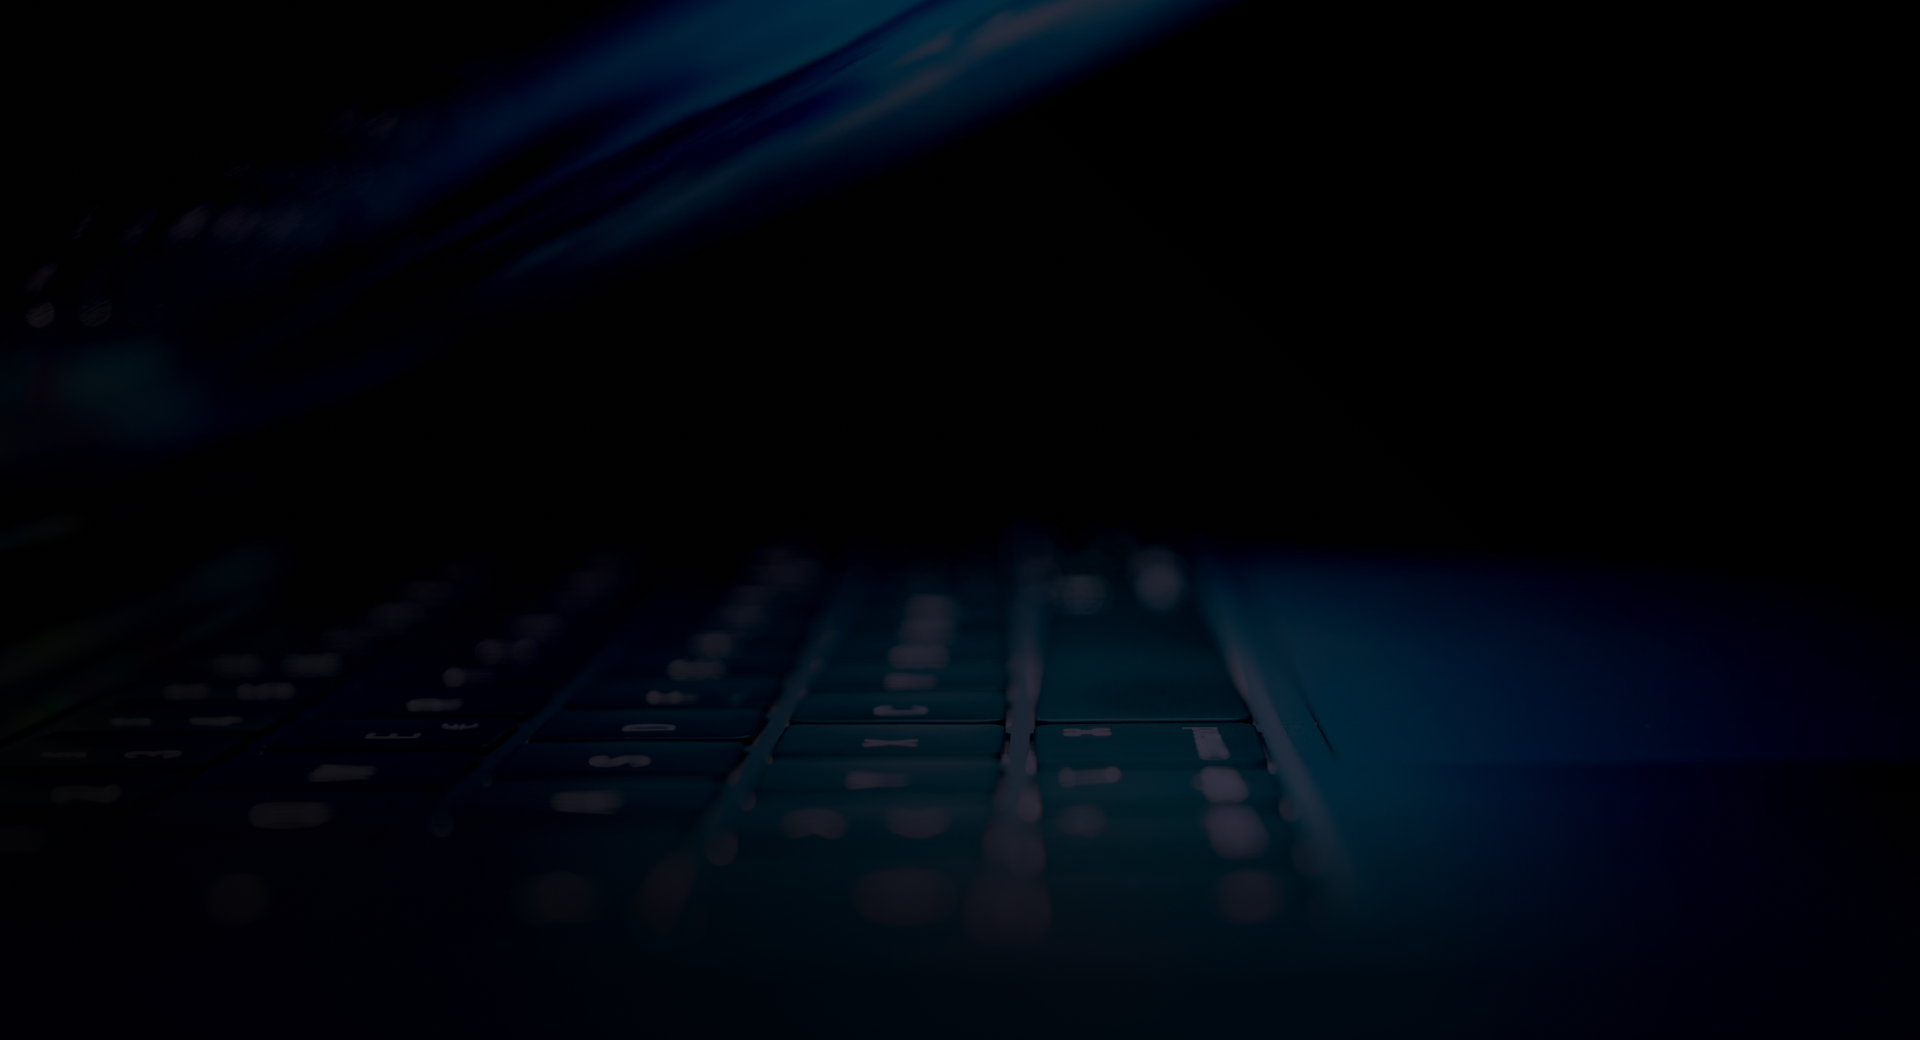
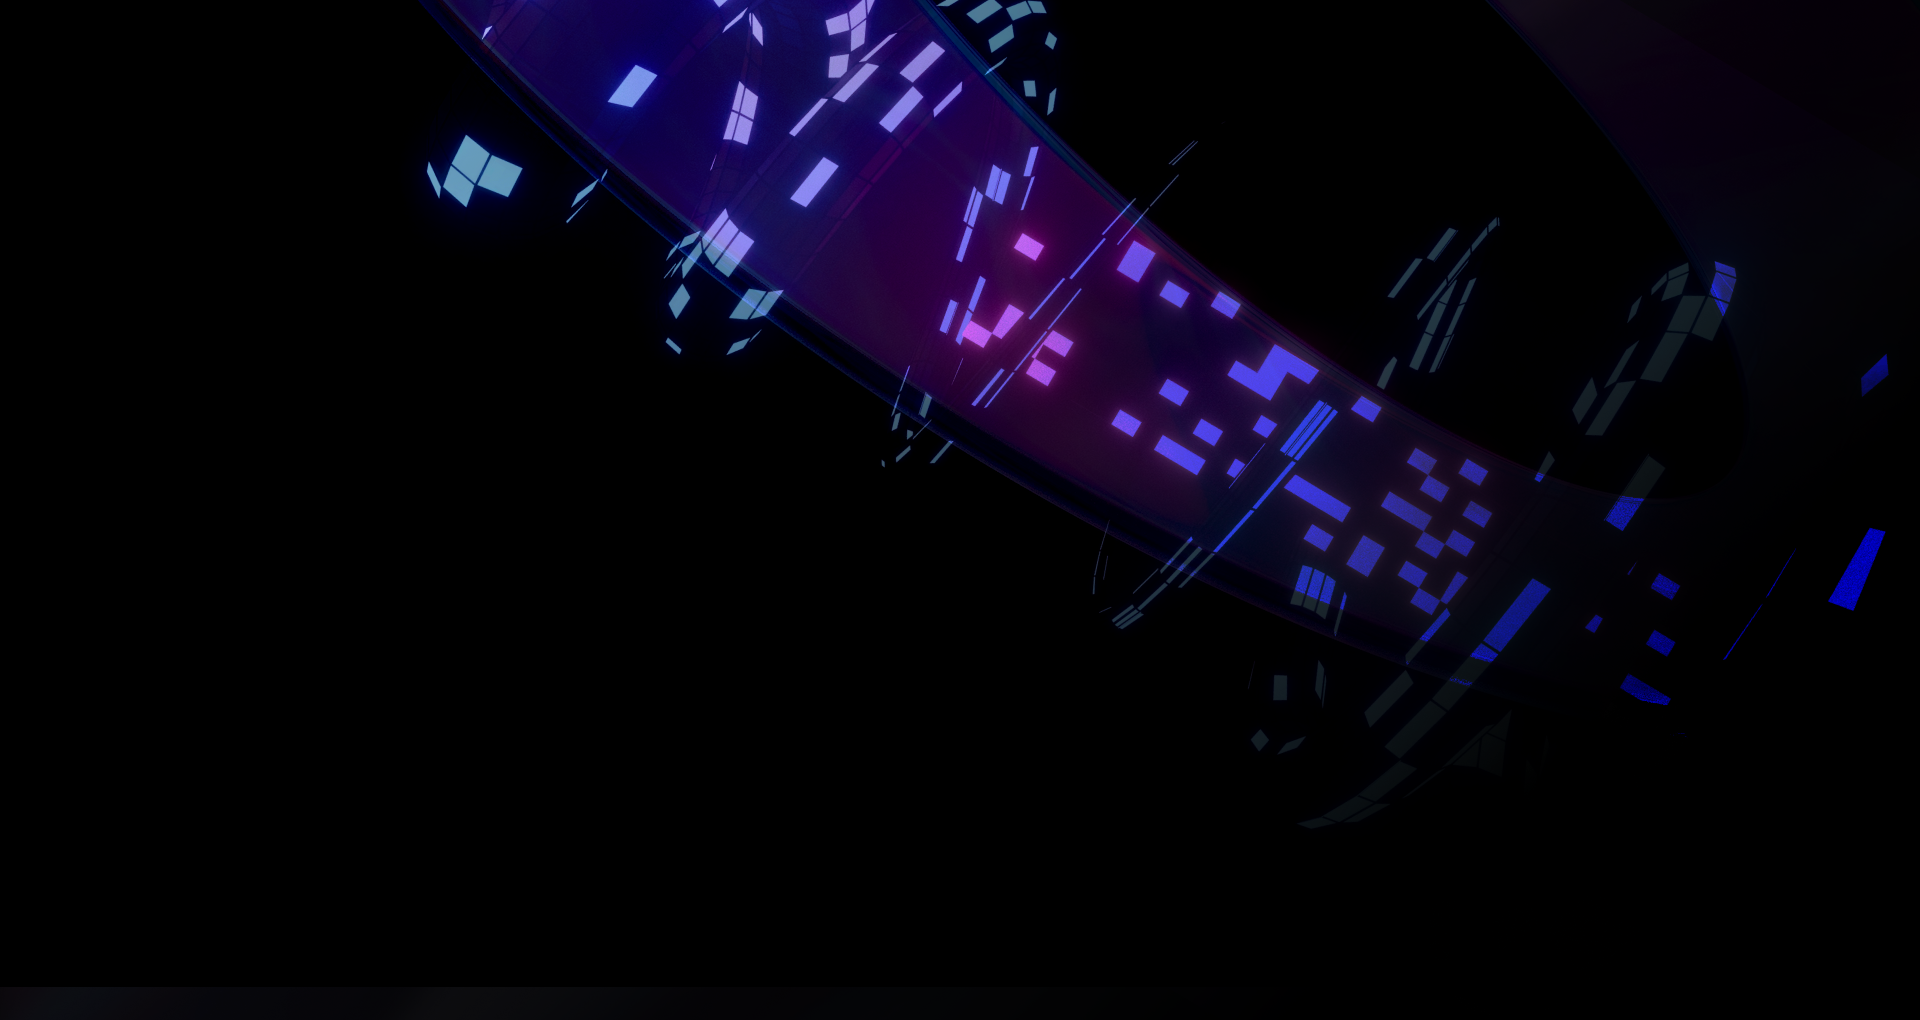
1.   로그인 변경

diff --git a/src/main/resources/static/css/emass_style.css b/src/main/resources/static/css/emass_style.css
@@ -289,7 +289,7 @@ h5 {position: relative; font-size:13px; font-weight: 600; color:#111;}
 .sublist p span {font-size:14px; color:#555;margin-left:4px;}
 .chartBox {padding:20px; background-color: #fff; border:1px solid #ddd; height:180px;}*/
 
-/* Login */
+/* Login OLD
 #login{position: relative; width:100%; height:100%;  background:#111 url(../img/bg_login.png) top center no-repeat;   background-size: 100% 100%;}
 #login .logo {width:500px;margin:0 auto; text-align: center; padding:140px 0 50px; }
 #login .logo img {width:232px; height:51px;}
@@ -303,6 +303,21 @@ h5 {position: relative; font-size:13px; font-weight: 600; color:#111;}
 #login #loginText {width:500px; margin:0 auto; margin-top:56px; color:#fff;opacity: 0.3;}
 #login #loginText h3 {font-size:18px; font-weight: 600; text-align: center;}
 #login #loginText p {text-align: center;font-size:13px;font-weight: 100; margin-top:16px;line-height:1.5;}
+*/
+
+/* Login */
+#login{position: relative; width:100%; height:100%;  background:#000 url(../img/bg_login.png) top center no-repeat;  background-size: 100% 110%;}
+#loginWrap {position: absolute; left:20%; top:42%; }
+#loginWrap label {font-size:14px; color:#fff;}
+#loginWrap #userIdInput, #userPwInput { border-radius:2px ; font-size:16px; color:#fff;width: 100%; height:54px; line-height:54px; padding: 12px 20px;display: inline-block;background-color:#292929; border: 1px solid #292929;box-sizing: border-box;}
+#login_container { display:grid; grid-template-columns: 350px 1fr; column-gap: 16px;}
+#login_switch label { vertical-align:middle;}
+.imgcontainer img { display:block; margin-bottom:24px;}
+.switchText {display: inline-block; color:#fff;  margin-top:20px; margin-left:4px;}
+.checkbox_align { margin:-2px 0 0 0; vertical-align:middle; }
+#loginWrap button { border-radius:2px ; font-size:20px; font-weight:600; background-color: #1A73F9;color: white;border: none;cursor: pointer; width:120px; height:120px;}
+#loginWrap button:hover {text-decoration: underline; }
+
 
 /*Pagination*/
 .pageArea {position: relative; width:100%; margin-top:12px;}

diff --git a/src/main/resources/static/css/messageContent.css b/src/main/resources/static/css/messageContent.css
@@ -527,12 +527,15 @@ input[type="radio"] {
 
 div.feedbackCorrect, div.feedbackInCorrect, div.feedbackDefer, div.feedbackInNotOpen, div.feedbackInOpen, div.feedbackcommon {
     background-repeat:no-repeat;
-    width:18px;
-    height:18px;
+    width:20px;
+    height:20px;
     position: relative;
-    top: 2px;
+    top: 0px;
     float: left;
+    background-size:80%;
+
 }
+.feedbackInCorrect img {width:100%; height:100%;}
 span.feedbackCorrect, span.feedbackInCorrect, span.feedbackDefer, span.feedbackInNotOpen, span.feedbackInOpen, span.feedbackcommon {
     background-repeat:no-repeat;
     background-position: center center !important;
@@ -555,14 +558,18 @@ span.feedbackCorrect, span.feedbackInCorrect, span.feedbackDefer, span.feedbackI
 .feedbackCorrectBg  {padding:4px 10px 4px 2px; background-color:#EBF9ED;  color:#2EBD3D !important; font-weight:600; border-radius: 10px; }
 
 .feedbackcommonBg img, .feedbackCorrectBg img, .feedbackInNotOpenBg img,.feedbackInOpenBg img, .feedbackInCorrectBg img, .feedbackDeferBg img {margin-top:-2px; margin-right: 4px;}
-#contextMenu li .feedbackCorrect,
+
+#contextMenu li .feedbackcommonBg,
+#contextMenu li .feedbackInNotOpenBg,
+#contextMenu li .feedbackInOpenBg,
+#contextMenu li .feedbackInCorrectBg,
 #contextMenu li .feedbackInCorrect,
 #contextMenu li .feedbackDefer {
     background-repeat:no-repeat;
-    width:18px;
-    height:18px;
+    width:20px;
+    height:20px;
     position: relative;
-    top: -2px;
+    top: 0px;
     float: left;
 }
 .font-normal{
